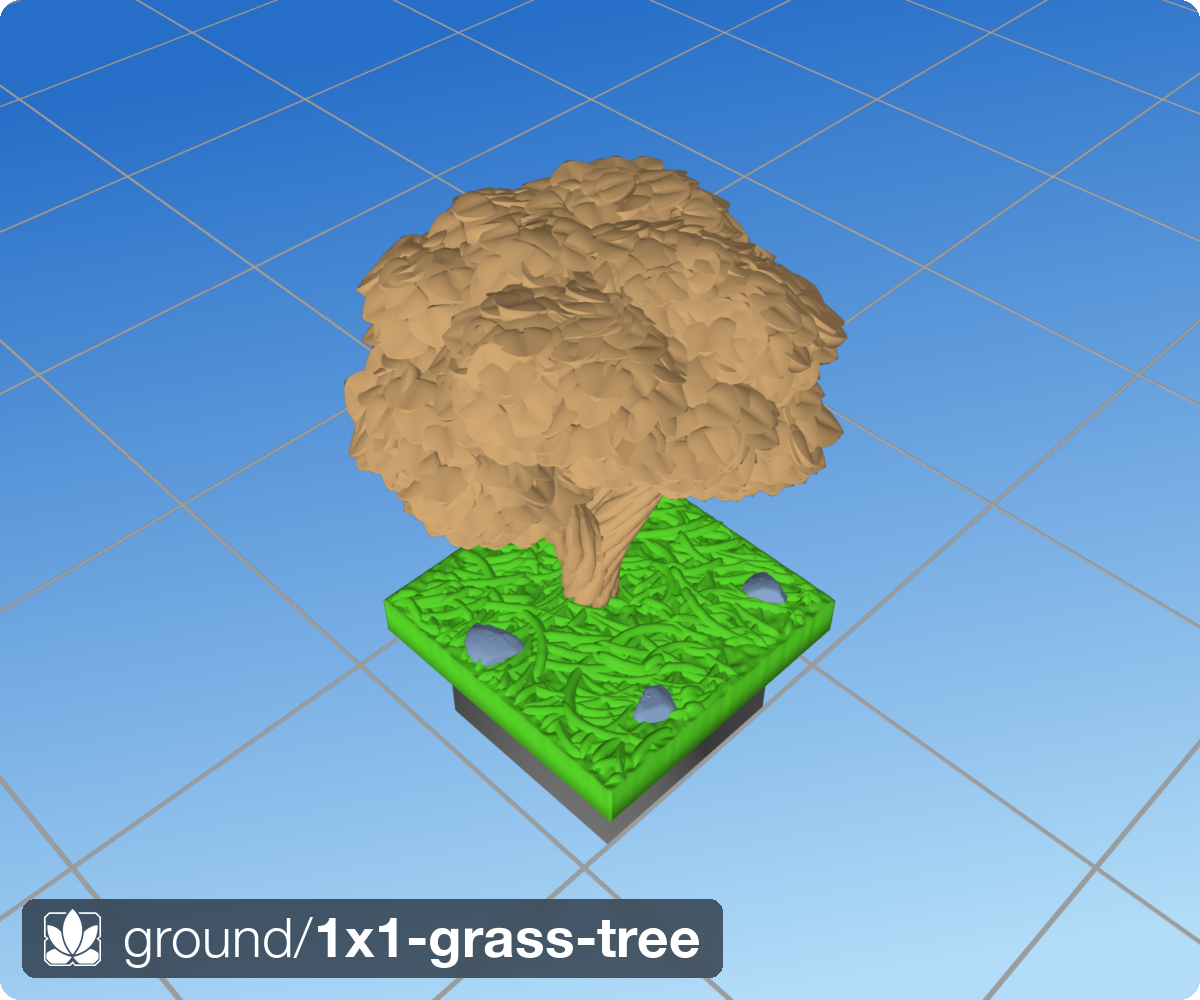
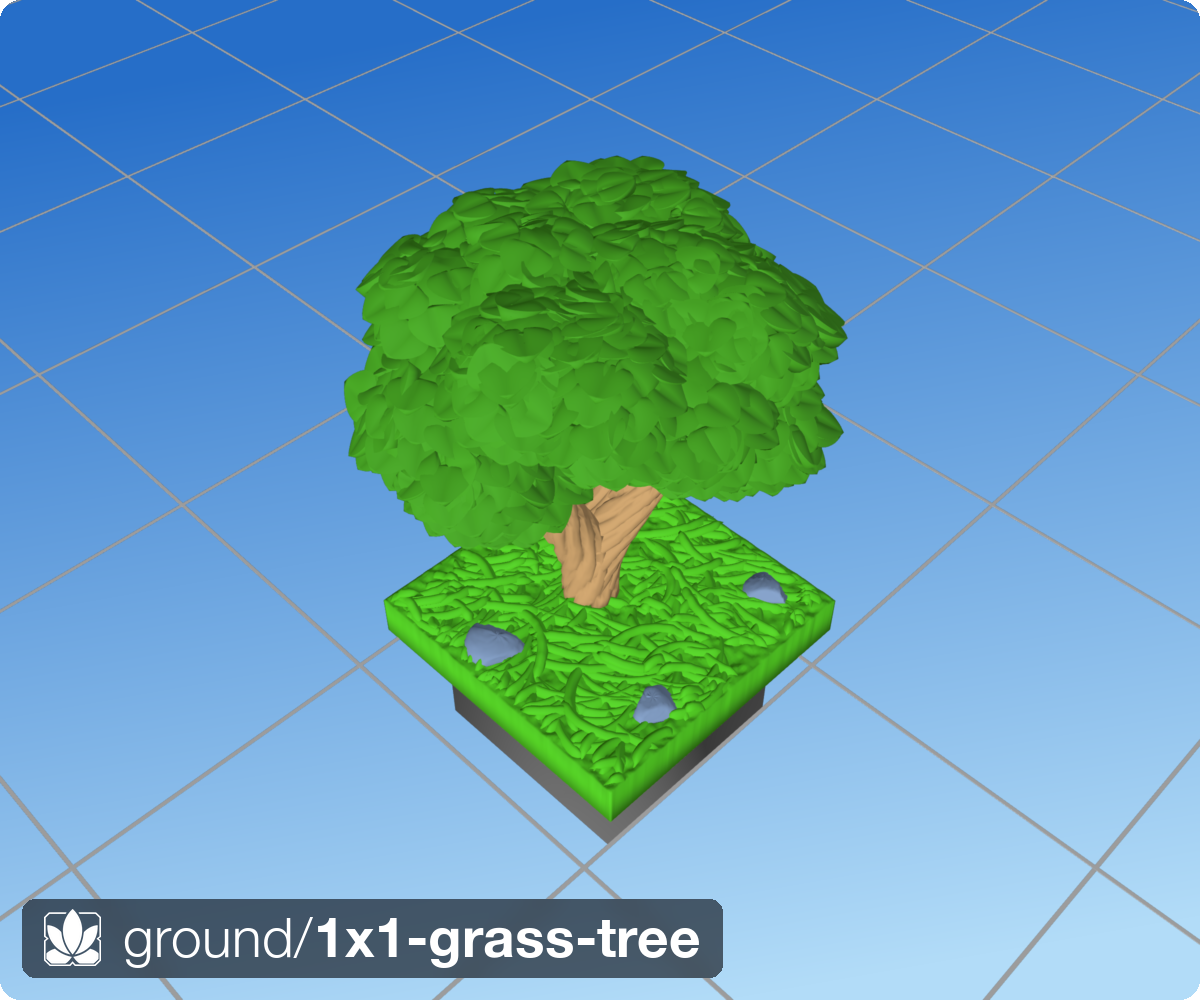
Rename stl output dirs: dungeonblocks→db, openlock→ol
- systems.py: DungeonBlocks.dir_name 'dungeonblocks'→'db',
  OpenLOCK.dir_name 'openlock'→'ol'
- bases/dungeonblocks.py, bases/openlock.py: update SYSTEM_SUFFIX constants
- core/config.py: update docstring to use 'db'/'ol' abbreviations
- stl/dungeonblocks/ → stl/db/, stl/openlock/ → stl/ol/ (git mv)
- stl/README.md, stl/db/README.md, stl/ol/README.md: update headings/paths
- CLAUDE.md, README.md: update all stl path references to short names

Format codes (db/ol) were already used in filenames and suffixes;
dir names now match. Commercial name 'dungeonblocks' is removed from
all paths; prose descriptions ('DungeonBlocks', 'OpenLOCK') retained.

Changed region(s): [[0.2775, 0.155, 0.7092, 0.558]]

diff --git a/src/dharmatiles/trees/mesh.py b/src/dharmatiles/trees/mesh.py
@@ -51,7 +51,7 @@ class _BarkLine:
         self.theta = float(theta)
 
 
-def build_tree_mesh(
+def build_branch_mesh(
     nodes:    np.ndarray,      # (N, 3) — root + branch pts + attractors
     parents:  np.ndarray,      # (N,) int; -1 for root
     radii:    np.ndarray,      # (N,) — bottom-up pipe-model radii
@@ -82,14 +82,16 @@ def build_tree_mesh(
     leaf_angle_jitter_deg: float = 24.0,
     leaf_pos_jitter: float = 0.165,
     leaf_tilt_deg: float = 45.0,
-) -> tuple[trimesh.Trimesh, list[trimesh.Trimesh]]:
-    """Build a single tree mesh from a simplified skeleton.
+) -> tuple[trimesh.Trimesh, trimesh.Trimesh, list[trimesh.Trimesh]]:
+    """Build branch and foliage meshes from a simplified skeleton.
 
     Returns
     -------
-    tree_mesh
-        Single Trimesh containing trunk, all branches, and foliage sweeps.
-        Tagged ``Material.WOOD``.
+    branch_mesh
+        Trimesh containing trunk and all branch tubes.  Tagged ``Material.WOOD``.
+    foliage_mesh
+        Trimesh containing foliage icosphere clumps and leaf blades.
+        Tagged ``Material.FOLIAGE``.  Empty when foliage is disabled.
     attractor_meshes
         Debug icospheres (empty unless ``debug_attractors`` is set).
     """
@@ -124,7 +126,8 @@ def build_tree_mesh(
     queue   = list(children[0])
     visited = [False] * n
     visited[0] = True
-    edge_solids: list[trimesh.Trimesh] = []
+    edge_solids:    list[trimesh.Trimesh] = []   # branch tubes (WOOD)
+    foliage_solids: list[trimesh.Trimesh] = []   # icosphere clumps + leaves (FOLIAGE)
     # Leaf shells are kept out of the boolean union: each leaf is an
     # independent watertight shell that need not be CSG-merged with the tree or
     # with other leaves.  Unioning ~thousands of them dominated runtime; we
@@ -266,7 +269,7 @@ def build_tree_mesh(
                 leaf_tilt_deg=leaf_tilt_deg,
             )
             if len(clump.vertices) > 0:
-                edge_solids.append(clump)
+                foliage_solids.append(clump)
             leaf_solids.extend(clump_leaves)
 
         node_frame[i] = end_frame
@@ -275,16 +278,13 @@ def build_tree_mesh(
         queue.extend(children[i])
 
     # ── assemble ──────────────────────────────────────────────────────────
-    # The boolean union cost is driven by the *number* of operands, not their
-    # total faces.  Feeding ~thousands of individual leaf shells in dominated
-    # runtime.  Pre-concatenate every leaf shell into a single operand first:
-    # the union then sees one leaf aggregate instead of thousands, while still
-    # removing the buried leaf/clump overlap faces (keeping the mesh compact).
     leaf_solids = [m for m in leaf_solids if len(m.vertices) > 0]
-    if leaf_solids:
-        edge_solids.append(trimesh.util.concatenate(leaf_solids))
-    tree_mesh = _union_edge_solids(edge_solids)
-    _tag(tree_mesh, Material.WOOD)
+    foliage_solids.extend(leaf_solids)
+
+    branch_mesh  = _union_edge_solids(edge_solids)
+    foliage_mesh = _union_edge_solids(foliage_solids)
+    _tag(branch_mesh,  Material.WOOD)
+    _tag(foliage_mesh, Material.FOLIAGE)
 
     # ── debug attractor spheres ───────────────────────────────────────────
     attractor_meshes: list[trimesh.Trimesh] = []
@@ -304,7 +304,7 @@ def build_tree_mesh(
             _tag(s, mat)
             attractor_meshes.append(s)
 
-    return tree_mesh, attractor_meshes
+    return branch_mesh, foliage_mesh, attractor_meshes
 
 
 def _build_closed_edge_solid(

diff --git a/src/dharmatiles/trees/layer.py b/src/dharmatiles/trees/layer.py
@@ -138,7 +138,7 @@ class Tree:
     ) -> list[trimesh.Trimesh]:
         from ..core.color import Material
         from .skeleton import grow_skeleton
-        from .mesh import build_tree_mesh
+        from .mesh import build_branch_mesh
         surface = scene.surface
         rng_seed = (
             derive_seed(surface.seed, "trees-scatter", layer_idx)
@@ -155,8 +155,9 @@ class Tree:
             surface,
             rng,
         )
-        tree_parts:  list[trimesh.Trimesh] = []
-        other_parts: list[trimesh.Trimesh] = []
+        branch_parts:  list[trimesh.Trimesh] = []
+        foliage_parts: list[trimesh.Trimesh] = []
+        other_parts:   list[trimesh.Trimesh] = []
         for x, y, _gd in positions:
             tz = float(sample_grid(scene.terrain_z, surface, np.array([x]), np.array([y]))[0])
             tree_seed = int(rng.integers(2 ** 62))
@@ -193,7 +194,7 @@ class Tree:
             )
             if len(nodes) < 2:
                 continue
-            mesh, attractor_parts = build_tree_mesh(
+            branch_mesh, foliage_mesh, attractor_parts = build_branch_mesh(
                 nodes,
                 parents,
                 radii,
@@ -221,23 +222,32 @@ class Tree:
                 leaf_pos_jitter=self.leaf_pos_jitter,
                 leaf_tilt_deg=self.leaf_tilt_deg,
             )
-            if len(mesh.vertices) == 0:
+            if len(branch_mesh.vertices) == 0 and len(foliage_mesh.vertices) == 0:
                 continue
 
-            tree_parts.append(mesh)
+            if len(branch_mesh.vertices) > 0:
+                branch_parts.append(branch_mesh)
+            if len(foliage_mesh.vertices) > 0:
+                foliage_parts.append(foliage_mesh)
             # Attractor spheres are pre-tagged; material grouping in tile.py handles them.
             other_parts.extend(attractor_parts)
             _stamp_tree(scene, surface, x, y, env, float(radii[0]))
 
-        if not tree_parts and not other_parts:
+        if not branch_parts and not foliage_parts and not other_parts:
             return []
 
         result: list[trimesh.Trimesh] = []
-        if tree_parts:
-            combined = (trimesh.util.concatenate(tree_parts)
-                        if len(tree_parts) > 1 else tree_parts[0])
-            combined.metadata['material'] = Material.WOOD
-            result.append(combined)
+        if branch_parts:
+            branch_combined = (trimesh.util.concatenate(branch_parts)
+                               if len(branch_parts) > 1 else branch_parts[0])
+            branch_combined.metadata['material'] = Material.WOOD
+            result.append(branch_combined)
+
+        if foliage_parts:
+            foliage_combined = (trimesh.util.concatenate(foliage_parts)
+                                if len(foliage_parts) > 1 else foliage_parts[0])
+            foliage_combined.metadata['material'] = Material.FOLIAGE
+            result.append(foliage_combined)
 
         result.extend(other_parts)
         return result

diff --git a/src/dharmatiles/terrains/tile.py b/src/dharmatiles/terrains/tile.py
@@ -368,7 +368,7 @@ def _build_tile_mesh(
     # FLOWER + DEBUG_COLOR_*: attractor debug spheres — unioning ~200 small
     # icospheres is very slow; concatenation is correct and fast.
     # WOOD: each tree is already internally unioned into one closed wood mesh.
-    _NO_UNION = {Material.GRASS, Material.FLOWER, Material.WOOD} | set(_DEBUG_COLORS)
+    _NO_UNION = {Material.GRASS, Material.FLOWER, Material.WOOD, Material.FOLIAGE} | set(_DEBUG_COLORS)
 
     groups: dict[Material, list[trimesh.Trimesh]] = defaultdict(list)
     for p in parts:

diff --git a/src/dharmatiles/systems.py b/src/dharmatiles/systems.py
@@ -49,7 +49,7 @@ class DungeonBlocks:
     """
 
     suffix   = "db"
-    dir_name = "dungeonblocks"
+    dir_name = "db"
 
     def __init__(self, *, peg_height: float | None = None):
         self.peg_height = peg_height
@@ -82,7 +82,7 @@ class OpenLOCK:
     """
 
     suffix   = "ol"
-    dir_name = "openlock"
+    dir_name = "ol"
 
     def __init__(self, *, square_mm: float = 25.4, peg_height: float | None = None):
         self.square_mm  = square_mm

diff --git a/src/dharmatiles/core/config.py b/src/dharmatiles/core/config.py
@@ -321,7 +321,7 @@ class FlowerConfig:
 class BaseConfig:
     """Tile base (underside socket-peg) parameters.
 
-    ``'dungeonblock'`` and ``'openlock'`` system exports are generated by
+    ``'db'`` (DungeonBlocks) and ``'ol'`` (OpenLOCK) system exports are generated by
     default. Set ``style = 'none'`` to skip system-base generation entirely.
 
     The socket geometry matches the DungeonBlocks open standard:

diff --git a/src/dharmatiles/bases/openlock.py b/src/dharmatiles/bases/openlock.py
@@ -16,7 +16,7 @@ from ..core.color import Material, tag as _tag
 from ..core.config import BaseConfig, SurfaceConfig
 
 
-SYSTEM_SUFFIX = "openlock"
+SYSTEM_SUFFIX = "ol"
 OPENLOCK_SQUARE_MM = 25.4   # canonical 1-inch imperial standard
 
 # Ported from OpenSCAD-OpenLock/OpenLock.scad.

diff --git a/src/dharmatiles/bases/dungeonblocks.py b/src/dharmatiles/bases/dungeonblocks.py
@@ -14,7 +14,7 @@ from ..core.config import BaseConfig, SurfaceConfig
 from ..core.logo import make_logo_manifold
 
 
-SYSTEM_SUFFIX = "dungeonblocks"
+SYSTEM_SUFFIX = "db"
 
 
 def select_peg_height(terrain_z: np.ndarray,

diff --git a/CLAUDE.md b/CLAUDE.md
@@ -12,10 +12,10 @@ This file provides guidance to Claude Code (claude.ai/code) when working with co
 # Install in editable mode (required before running anything)
 pip install -e .
 
-# Batch mode: process every src/tiles/**/*.tile.py → stl/{dungeonblocks,openlock}/…
+# Batch mode: process every src/tiles/**/*.tile.py → stl/{db,ol}/…
 dharmatiles-gen
 
-# Single tile (writes to canonical stl/{system}/{NxM}-{name}-{db|ol}.stl)
+# Single tile (writes to canonical stl/{db|ol}/{NxM}-{name}-{db|ol}.stl)
 dharmatiles-gen --tile "src/tiles/ground/1x1-soil+grass.tile.py"
 dharmatiles-gen --tile "src/tiles/ground/2x2-grass-tree.tile.py"
 dharmatiles-gen --quiet   # suppress progress output
@@ -353,8 +353,8 @@ src/extras/      standalone non-terrain utilities (dharmatiles-paint-organizer.p
 src/scripts/     standalone utilities; src/scripts/archived/ = old generations
 src/scad/        OpenSCAD files and experiments
 stl/
-  dungeonblocks/ generated STL output — DungeonBlocks base system
-  openlock/      generated STL output — OpenLOCK base system
+  db/            generated STL output — DungeonBlocks base system (db)
+  ol/            generated STL output — OpenLOCK base system (ol)
 docs/            design notes, architecture review transcripts, session memory
 docs/meta/history/  architecture review transcripts
 docs/memory/     persistent session memory (MEMORY.md index)

diff --git a/stl/README.md b/stl/README.md
@@ -13,9 +13,9 @@ dharmatiles-gen
 Output lands in:
 
 ```
-stl/dungeonblocks/   DungeonBlocks base system (35 mm square grid)
-stl/openlock/        OpenLOCK base system (25.4 mm square grid)
-stl/extras/          Standalone non-terrain utilities
+stl/db/      DungeonBlocks base system (db — 35 mm square grid)
+stl/ol/      OpenLOCK base system (ol — 25.4 mm square grid)
+stl/extras/  Standalone non-terrain utilities
 ```
 
 Individual tiles can be regenerated with:

diff --git a/stl/db/README.md b/stl/db/README.md
@@ -1,6 +1,6 @@
-# stl/dungeonblocks/
+# stl/db/
 
-DungeonBlocks-compatible terrain tiles (35 mm square grid, socket-peg underside).
+DungeonBlocks-compatible terrain tiles (db — 35 mm square grid, socket-peg underside).
 
 This directory is empty in the repository. STL files are generated locally and
 not committed — they are large binary files that reproduce exactly from source.

diff --git a/stl/ol/README.md b/stl/ol/README.md
@@ -1,6 +1,6 @@
-# stl/openlock/
+# stl/ol/
 
-OpenLOCK-compatible terrain tiles (25.4 mm square grid, T-slot underside).
+OpenLOCK-compatible terrain tiles (ol — 25.4 mm square grid, T-slot underside).
 
 This directory is empty in the repository. STL files are generated locally and
 not committed — they are large binary files that reproduce exactly from source.

diff --git a/README.md b/README.md
@@ -176,7 +176,7 @@ the system tries to answer:
 ```bash
 pip install -e .
 
-# Generate every tile in src/tiles/ → stl/{dungeonblocks,openlock}/
+# Generate every tile in src/tiles/ → stl/{db,ol}/
 dharmatiles-gen
 
 # Generate a single tile
